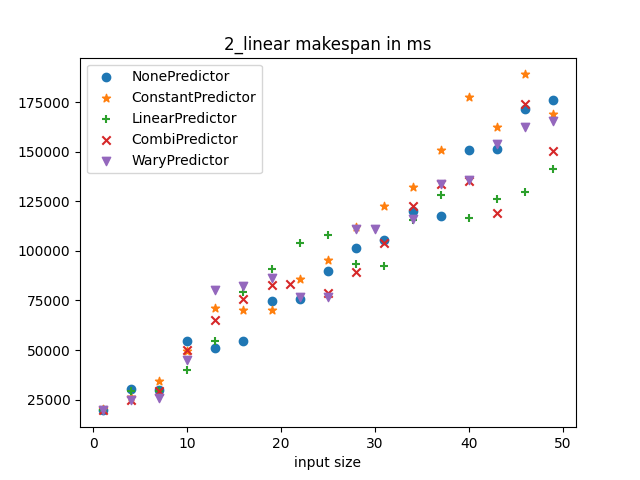
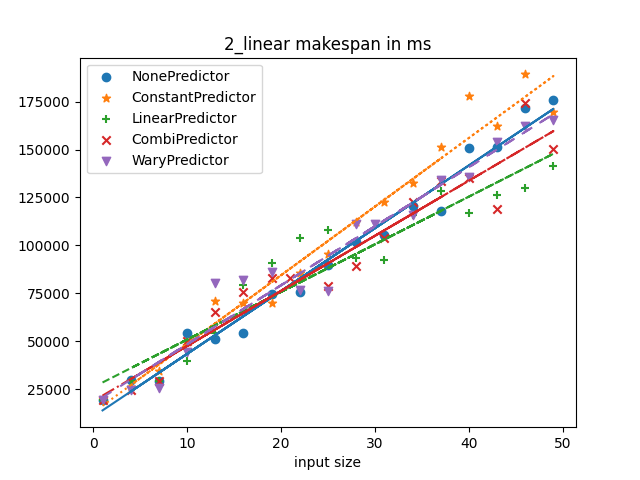
with linera regression

diff --git a/prod-synt-solo/scatter.py b/prod-synt-solo/scatter.py
@@ -5,6 +5,7 @@ import zipfile
 import pandas as pd
 import matplotlib.pyplot as plt
 from pathlib import Path
+import numpy as np
 
 
 def extract_data(data, search):
@@ -89,11 +90,14 @@ def main():
     #fig = plt.figure()
     
     markers = ['o','*','+','x', 'v']
+    linestyle = ['solid','dotted','dashed','dashdot',(0,(5,5))]
     for i in range(0, len(dataframes)):
         cname = dataframes[i].columns[1]
         #print(dataframes[i]["Observations"])
         #print(dataframes[i][cname])
         plt.scatter(dataframes[i]['Observations'], dataframes[i][cname], marker=markers[i], label=cname)
+        m, b = np.polyfit(dataframes[i]['Observations'], dataframes[i][cname], 1)
+        plt.plot(dataframes[i]['Observations'], m*dataframes[i]['Observations']+b, linestyle=linestyle[i])
 
     plt.title(f"{cwd} makespan in ms")
     plt.xlabel("input size")
